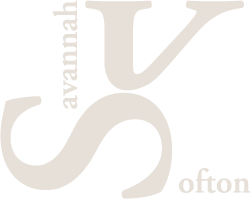
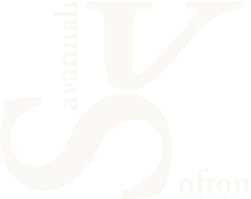
changes for new update
fixed homepage

Changed region(s): [[0.0, 0.0, 0.9761, 0.995], [0.1952, 0.0, 0.3068, 0.5427], [0.6972, 0.8442, 1.0, 0.9648]]

diff --git a/index.css b/index.css
@@ -13,7 +13,7 @@ font-weight: 500;
 font-style: normal;
 */
 body{
-    background-color:#E5DFD8;
+    background-color:#F8F6F0;
 }
 * {
     margin: 0;
@@ -105,7 +105,7 @@ top: 50%;
 left: 50%;
 transform: translate(-50%, -50%);
 height: 100%;
-color: #E5DFD8;
+color: #F8F6F0;
 }
 
 .sav {
@@ -123,7 +123,7 @@ top: 40%;
 left: 50%;
 transform: translate(-50%, -50%);
 height: 100%;
-color: #E5DFD8;
+color: #F8F6F0;
 }
 
 .fash {
@@ -148,7 +148,7 @@ font-size: 15pt;
     left: 50%;
     transform: translate(-50%, -50%);
     height: 100%;
-    color: #E5DFD8;
+    color: #F8F6F0;
 }
 
 .style {
@@ -171,7 +171,7 @@ font-size: 15pt;
         left: 50%;
         transform: translate(-50%, -50%);
         height: 100%;
-        color: #E5DFD8;
+        color: #F8F6F0;
         }
         
         .sav {
@@ -189,7 +189,7 @@ font-size: 15pt;
         left: 50%;
         transform: translate(-50%, -50%);
         height: 100%;
-        color: #E5DFD8;
+        color: #F8F6F0;
         }
         
         .fash {
@@ -214,7 +214,7 @@ font-size: 15pt;
             left: 50%;
             transform: translate(-50%, -50%);
             height: 100%;
-            color: #E5DFD8;
+            color: #F8F6F0;
         }
 
         .linelight {
@@ -229,51 +229,31 @@ font-size: 15pt;
         }
     }
 /*PHOTO BASES*/
-.webpagephoto {
-    display: none;
-}
+.rectangle {
+    height: 90vh;
+    width: 100%;
+    background-color: #FF69B4;
+  }
 @media (min-width: 600px) {
-.webpagephoto {
-    display: block;
+.rectangle {
+    height: 120vh;
+    width: 100%;
+    background-color: #FF69B4;
+  }
 }
-}
-
-@media (min-width: 600px) {
-.phonepage{
-    display: none;
-    }
-}
-
 /*QUOTE FLEXBOX*/
-.quote {
-    color: #2D3947;
-    font-family: "eb-garamond", serif;
-font-weight: 800;
-font-style: normal;
-font-size: 30pt;
-justify-content: center;
-align-items: center;
-text-align: center;
-padding: 10vw;
-padding-left: 4vw;
-padding-right: 4vw;
+.smallphotos {
+    height: 60vh;
+    width: 100%;
+    background-color: #F8F6F0;
 
 }
 
 @media (min-width: 600px) {
-.quote {
-    color: #2D3947;
-    font-family: "eb-garamond", serif;
-font-weight: 800;
-font-style: normal;
-font-size: 70pt;
-justify-content: center;
-align-items: center;
-text-align: center;
-padding: 8vw;
-padding-left: 5vw;
-padding-right: 5vw;
-
+.smallphotos {
+    height: 70vh;
+    width: 100%;
+    background-color: #F8F6F0;
 }
 }
 
@@ -405,16 +385,16 @@ color: #8E7465;
 
 /*LINK STYLING */
 a:link {
-    color: #E5DFD8;
+    color: #F8F6F0;
     text-decoration: none;
   }
 
   a:visited {
-    color: #E5DFD8;
+    color: #F8F6F0;
   }
 
   a:hover {
-    text-decoration: underline;
+   color: #6B1F2D;
   }
   
 

diff --git a/index.html b/index.html
@@ -34,12 +34,10 @@
 
 
 <!--PHOTO BASES-->
-<div class="webpagephoto"><img src="PHOTOS/scrollweb.jpg" width="100%" loading="lazy" alt="webpagephoto"></div>
-<div class="phonepage"><img src="PHOTOS/scrollphone.jpg" width="100%" loading="lazy"alt="phonepage"></div> 
+<div class="rectangle"></div>
 
-<!--QUOTE FLEXBOX-->
-<div class="quote">
-    “Beauty is being the best possible version of yourself, inside and out.” — Audrey Hepburn
+<!--SMALL PHOTOS FLEXBOX-->
+<div class="smallphotos">
 </div>
 
 <!--ABOUT ME SECTION-->
